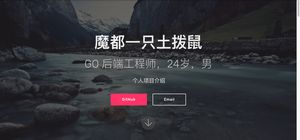
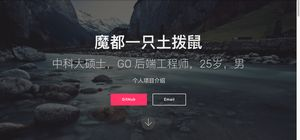
add

Changed region(s): [[0.15, 0.4, 0.75, 0.5143], [0.78, 0.4, 0.81, 0.5143], [0.48, 0.8571, 0.51, 0.9143]]

diff --git a/index.html b/index.html
@@ -37,7 +37,7 @@
                 <h1 class="mbr-section-title mbr-bold pb-3 mbr-fonts-style display-1">魔都一只土拨鼠<span style="font-weight: normal;"><br></span></h1>
                 <h3 class="mbr-section-subtitle align-center mbr-light pb-3 mbr-fonts-style display-2">中科大硕士，GO 后端工程师，25岁，男</h3>
                 <p class="mbr-text pb-3 mbr-fonts-style display-5"><strong>&nbsp;个人项目介绍</strong></p>
-                <div class="mbr-section-btn"><a class="btn btn-md btn-secondary display-4" href="https://github.com/googege">GitHub</a>
+                <div class="mbr-section-btn"><a class="btn btn-md btn-secondary display-4" href="https://github.com/shgopher" target="_blank">GitHub</a>
                     <a class="btn btn-md btn-white-outline display-4" href="mailto:googege@icloud.com">Email</a></div>
             </div>
         </div>
@@ -49,7 +49,7 @@
     </div>
 </section>
 
-<section class="engine"><a href="https://mobirise.info/i">site creation software</a></section><section class="header7 cid-rWHrXwuatN" id="header7-3">
+<section class="engine"><a href="https://mobirise.info/v">html templates</a></section><section class="header7 cid-rWHrXwuatN" id="header7-3">
 
     
 
@@ -257,13 +257,13 @@
                 <h5 class="pb-3">
                     Contacts
                 </h5>
-                <p class="mbr-text"></p><p>微信: MMY5du<span style="font-size: 1.2rem;">（请注明来意）</span></p><p><br><br></p><p></p>
+                <p class="mbr-text"></p><p>微信: shgopher<span style="font-size: 1.2rem;">（请注明来意）</span></p><p><br><br></p><p></p>
             </div>
             <div class="col-12 col-md-3 mbr-fonts-style display-7">
                 <h5 class="pb-3">
                     Links
                 </h5>
-                <p class="mbr-text"><a href="https://jianshu.com/u/googege"></a><a href="https://www.jianshu.com/u/6da94d8e2e14" target="_blank">简书</a><br><a href="https://juejin.im/user/5dd4a3b0f265da0ba424630b" target="_blank">掘金</a><br><a href="https://github.com/googege" target="_blank">GitHub</a><br><a href="https://upload-images.jianshu.io/upload_images/14356536-47c2655ac2655a40.png" target="_blank"></a><a href="assets/files/qun.pdf" target="_blank">微信群</a><br><a href="assets/files/w.pdf" target="_blank">公众号</a><br><a href="https://space.bilibili.com/23170151" target="_blank">b站</a><br><a href="https://upload-images.jianshu.io/upload_images/14356536-3ed3b5f1700d01f5.png" target="_blank"></a><a href="assets/files/kuai.pdf" target="_blank">抖音快手</a><br><a href="https://www.youtube.com/channel/UCM_-pFgD_HZDGD0yxfzguRQ" target="_blank">油管</a></p>
+                <p class="mbr-text"><a href="https://jianshu.com/u/googege"></a><a href="https://www.jianshu.com/u/6da94d8e2e14" target="_blank">简书</a><br><a href="https://juejin.im/user/5dd4a3b0f265da0ba424630b" target="_blank">掘金</a><br><a href="https://github.com/shgopher" target="_blank">GitHub</a><br><a href="https://upload-images.jianshu.io/upload_images/14356536-47c2655ac2655a40.png" target="_blank"></a><a href="assets/files/qun.pdf" target="_blank">微信群</a><br><a href="assets/files/w.pdf" target="_blank">公众号</a><br><a href="https://space.bilibili.com/23170151" target="_blank">b站</a><br><a href="https://upload-images.jianshu.io/upload_images/14356536-3ed3b5f1700d01f5.png" target="_blank"></a><a href="assets/files/kuai.pdf" target="_blank">抖音快手</a><br><a href="https://www.youtube.com/channel/UCM_-pFgD_HZDGD0yxfzguRQ" target="_blank">油管</a></p>
             </div>
         </div>
         
